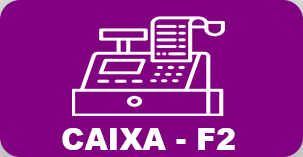
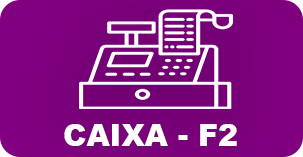
icones att

diff --git a/Hamburgueria - PC/MainWindow.xaml b/Hamburgueria - PC/MainWindow.xaml
@@ -6,32 +6,28 @@
         xmlns:local="clr-namespace:Hamburgueria___PC"
         mc:Ignorable="d"
         Title="MainWindow" Height="766.9" Width="1366" WindowStartupLocation="CenterScreen" WindowState="Maximized">
-    <Grid Background="Orange" Opacity="0.5">
-        <Grid.ColumnDefinitions>
-            <ColumnDefinition/>
-            <ColumnDefinition Width="0*"/>
-        </Grid.ColumnDefinitions>
+    <Grid Background="Orange">
         <Button x:Name="BtnVendas" Content="" Margin="23,0,0,349" HorizontalAlignment="Left" Width="357" Height="176" VerticalAlignment="Bottom" BorderBrush="{x:Null}">
             <Button.Background>
                 <ImageBrush ImageSource="Resources/Botao_vendas.png"/>
             </Button.Background>
         </Button>
-        <Button x:Name="BtnClientes" Content="CLIENTES" Margin="23,0,0,85" Height="176" VerticalAlignment="Bottom" HorizontalAlignment="Left" Width="357">
+        <Button x:Name="BtnClientes" Content="" Margin="23,0,0,85" Height="176" VerticalAlignment="Bottom" HorizontalAlignment="Left" Width="357" BorderBrush="{x:Null}">
             <Button.Background>
                 <ImageBrush ImageSource="Resources/Botao_cliente.png"/>
             </Button.Background>
         </Button>
-        <Button x:Name="BtnProdutos" Content="PRODUTOS" Margin="0,0,34,349" Height="176" VerticalAlignment="Bottom" HorizontalAlignment="Right" Width="357">
+        <Button x:Name="BtnProdutos" Content="" Margin="0,0,34,349" Height="176" VerticalAlignment="Bottom" HorizontalAlignment="Right" Width="357" BorderBrush="{x:Null}">
             <Button.Background>
                 <ImageBrush ImageSource="Resources/Botao_Caixa.png"/>
             </Button.Background>
         </Button>
-        <Button x:Name="BtnRelatorios" Content="RELATORIOS" Margin="0,0,34,85" HorizontalAlignment="Right" Width="357" Height="176" VerticalAlignment="Bottom">
+        <Button x:Name="BtnRelatorios" Content="" Margin="0,0,34,85" HorizontalAlignment="Right" Width="357" Height="176" VerticalAlignment="Bottom" BorderBrush="{x:Null}">
             <Button.Background>
                 <ImageBrush ImageSource="Resources/Botao_relatorios.png"/>
             </Button.Background>
         </Button>
-        <Button x:Name="BtnRelatorios_Copy" Content="RELATORIOS" Margin="521,0,0,85" HorizontalAlignment="Left" Width="357" Height="176" VerticalAlignment="Bottom">
+        <Button x:Name="BtnRelatorios_Copy" Content="" Margin="521,0,0,85" HorizontalAlignment="Left" Width="357" Height="176" VerticalAlignment="Bottom" BorderBrush="{x:Null}">
             <Button.Background>
                 <ImageBrush ImageSource="Resources/Botao_Produtos.png"/>
             </Button.Background>
